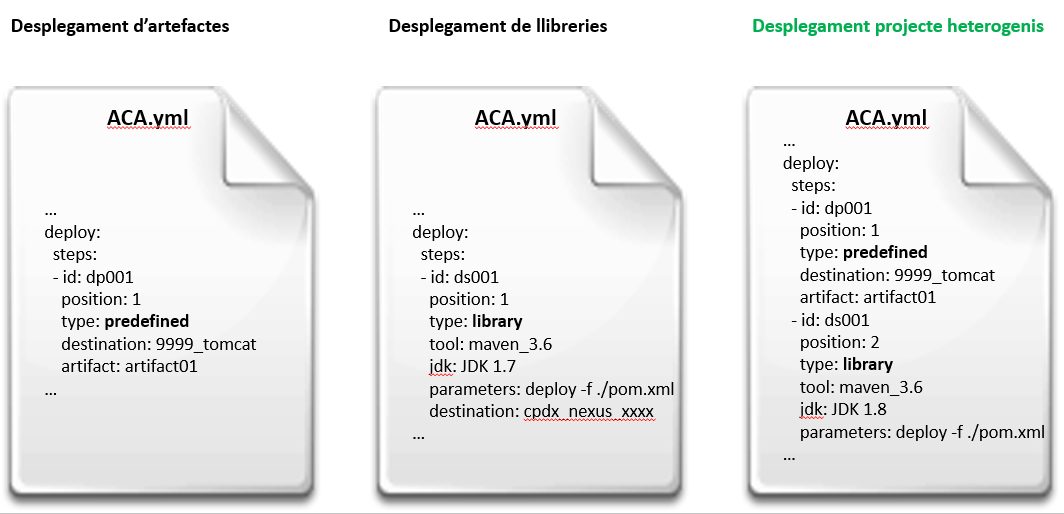
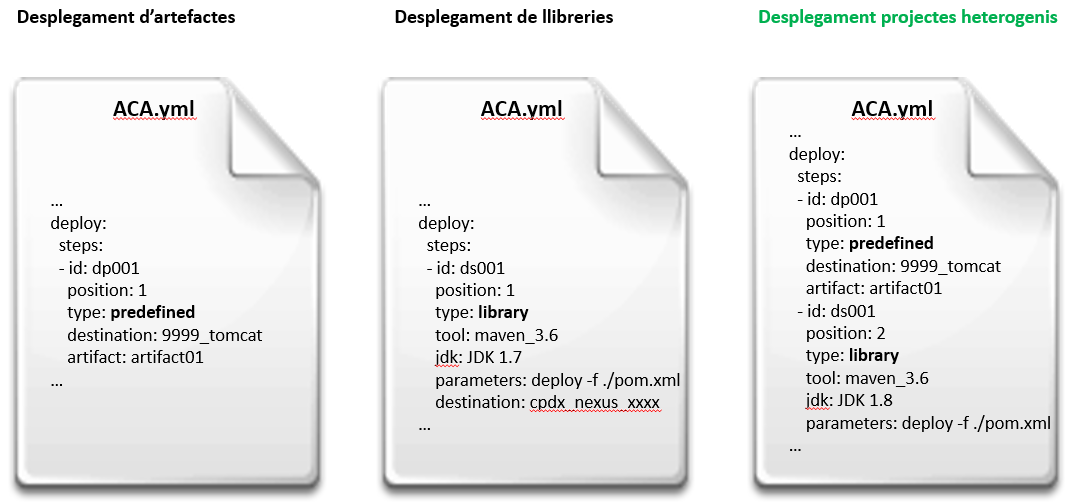
Incloem imatges a la noticia de autoservei projectes híbrids (revisió).

diff --git a/content/noticies/2020-12-27-SIC-autoservei-projectes-heterogenis.md b/content/noticies/2020-12-27-SIC-autoservei-projectes-heterogenis.md
@@ -16,9 +16,10 @@ o bé, combinar la publicació de llibreries amb el desplegament d'artefactes.
 <br/>
 
 Per a més informació: [Com construir el fitxer ACA](/sic-welcome-pack/fitxer-aca/).
-<br/>
+<br/><br/>
 
 El funcionament de la pipeline de desplegament generada seria el següent:
+<br/>
 ![ACA](/related/sic/2.0/autoservei_heterogenis_diagrama.png)
 <br/>
 
